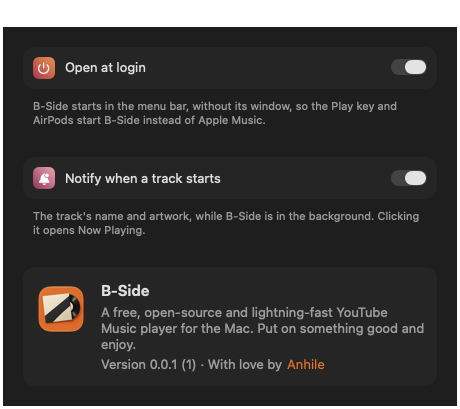
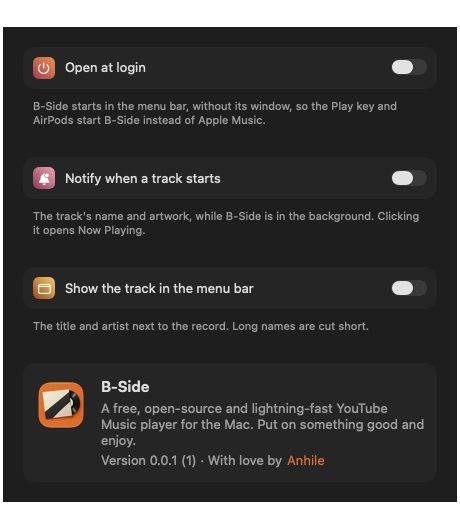
A setting shows the track in the menu bar
Off by default. The title and artist sit next to the record, cut at 32
characters; an ad shows as Advertisement.

diff --git a/Sources/BSide/Views/MenuBar/StatusMenu.swift b/Sources/BSide/Views/MenuBar/StatusMenu.swift
@@ -1,10 +1,12 @@
 import AppKit
+import Combine
 import SwiftUI
 
 /// The record in the menu bar and its menu, in AppKit so the first item can
 /// be a real view: artwork, the title scrolling when long, and the transport
 /// buttons. The rest are ordinary items, rebuilt each time the menu opens.
-/// Nothing runs while the menu is closed.
+/// While the menu is closed nothing runs but the watch for a new track,
+/// whose name can stand next to the record (Settings, General).
 @MainActor
 final class StatusMenu: NSObject, NSMenuDelegate {
     static let shared = StatusMenu()
@@ -13,6 +15,7 @@ final class StatusMenu: NSObject, NSMenuDelegate {
     private let menu = NSMenu()
     private weak var player: PlayerController?
     private var openMain: (() -> Void)?
+    private var watches: Set<AnyCancellable> = []
 
     func install(player: PlayerController, openMain: @escaping () -> Void) {
         self.player = player
@@ -27,9 +30,27 @@ final class StatusMenu: NSObject, NSMenuDelegate {
         item.autosaveName = "B-Side"
         item.button?.image = MenuBarIcon.image
         item.button?.toolTip = "B-Side"
+        item.button?.imagePosition = .imageLeading
         item.menu = menu
         menu.delegate = self
         self.item = item
+        // The track's name next to the record: again when the track changes
+        // (the state is published before it is set, hence from the value),
+        // and when the setting does.
+        player.$state
+            .map(Self.trackLine)
+            .removeDuplicates()
+            .sink { [weak self] in self?.show(track: $0) }
+            .store(in: &watches)
+        NotificationCenter.default.publisher(for: UserDefaults.didChangeNotification)
+            .receive(on: DispatchQueue.main)
+            .sink { [weak self] _ in
+                MainActor.assumeIsolated {
+                    guard let self, let player = self.player else { return }
+                    self.show(track: Self.trackLine(player.state))
+                }
+            }
+            .store(in: &watches)
         // Where the icon ended up, for when it cannot be seen: a place
         // left of the screen is a menu bar manager's hidden section.
         DispatchQueue.main.asyncAfter(deadline: .now() + 2) { [weak item] in
@@ -40,6 +61,25 @@ final class StatusMenu: NSObject, NSMenuDelegate {
                 + (item.isVisible ? "allowed" : "not allowed") + " in the menu bar"
                 + (item.button?.window?.screen == nil ? ", off every screen" : ""))
         }
+    }
+
+    /// "Title — Artist", cut to fit the menu bar; empty with nothing loaded.
+    private static func trackLine(_ state: PlayerState) -> String {
+        guard !state.videoID.isEmpty else { return "" }
+        if state.isAd { return "Advertisement" }
+        let line = state.artist.isEmpty ? state.title : "\(state.title) — \(state.artist)"
+        guard line.count > Tuning.menuBarTrackLength else { return line }
+        return line.prefix(Tuning.menuBarTrackLength - 1).trimmingCharacters(in: .whitespaces) + "…"
+    }
+
+    /// The record alone, or with the track's name after it when the user
+    /// asked for it and something is loaded.
+    private func show(track line: String) {
+        guard let item else { return }
+        let title = Settings.bool(Keys.menuBarTrack) ? line : ""
+        guard item.button?.title != title else { return }
+        item.button?.title = title
+        item.length = title.isEmpty ? NSStatusItem.squareLength : NSStatusItem.variableLength
     }
 
     func menuNeedsUpdate(_ menu: NSMenu) {

diff --git a/Sources/BSide/Views/Settings/GeneralSettings.swift b/Sources/BSide/Views/Settings/GeneralSettings.swift
@@ -7,10 +7,29 @@ struct GeneralSettings: View {
         Form {
             OpenAtLogin()
             TrackNotifications()
+            MenuBarTrack()
             AboutSection()
         }
         .formStyle(.grouped)
         .background(ThinScrollers())
+    }
+}
+
+/// The track's name next to the record in the menu bar. Off by default:
+/// the menu bar is short of room.
+struct MenuBarTrack: View {
+    @AppStorage(Keys.menuBarTrack) private var shows = false
+
+    var body: some View {
+        Section {
+            Toggle(isOn: $shows) {
+                SettingLabel(title: "Show the track in the menu bar", symbol: "menubar.rectangle", colour: 6)
+            }
+        } footer: {
+            Text("The title and artist next to the record. Long names are cut short.")
+                .font(.subheadline)
+                .foregroundStyle(.secondary)
+        }
     }
 }
 

diff --git a/Sources/BSide/App/Settings.swift b/Sources/BSide/App/Settings.swift
@@ -10,6 +10,7 @@ enum Keys {
     static let wasSignedIn = "wasSignedIn"       // greet with "Welcome back" while the player loads
     static let guest = "guest"                   // chose to use B-Side without signing in
     static let notifyTrack = "notifyTrack"       // a notification when the next track starts
+    static let menuBarTrack = "menuBarTrack"     // the track's name next to the record in the menu bar
     static let theme = "theme"                   // ThemeMode: system, light or dark
     static let uiSize = "uiSize"                 // UISize: compact or large
     static let repeatMode = "repeatMode"         // RepeatMode: off, all or one
@@ -63,6 +64,7 @@ enum Settings {
             Keys.forceAudioOnly: true,
             Keys.volume: 100.0,
             Keys.notifyTrack: false,
+            Keys.menuBarTrack: false,
         ])
     }
 

diff --git a/Sources/BSide/App/Tuning.swift b/Sources/BSide/App/Tuning.swift
@@ -12,6 +12,9 @@ enum Tuning {
     /// second it offers to start again.
     static let startSlowSeconds: Double = 6
     static let startRetrySeconds: Double = 15
+    /// The track's name in the menu bar is cut after this many characters:
+    /// the menu bar is short of room, more so beside a notch.
+    static let menuBarTrackLength = 32
     /// The list of playlists is not asked for again sooner than this when
     /// the Playlists page comes into view.
     static let playlistsFreshSeconds: Double = 30

diff --git a/README.md b/README.md
@@ -29,7 +29,8 @@ The pictures are rendered by the app itself with sample data.
 - **Explore.** Search songs, albums, artists and playlists; artist and album
   pages.
 - **Menu bar.** The current track with Previous, Play and Next, every vibe
-  and playlist. Closing the window does not stop the music.
+  and playlist. Closing the window does not stop the music. A setting puts
+  the track's name next to the icon.
 - **Media keys, AirPods and Control Center** work as with any player. With
   "Open at login" on, the Play key starts B-Side instead of Apple Music.
 - **The last track is back** when you open B-Side again, paused where it
